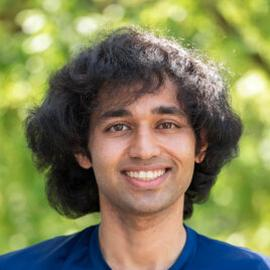
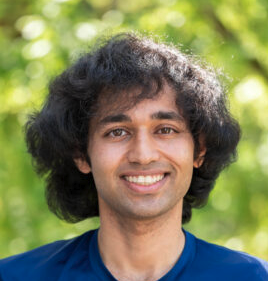
updates

diff --git a/authors/aditya-rastogi/index.html b/authors/aditya-rastogi/index.html
@@ -310,11 +310,11 @@
 
   <meta property="twitter:site" content="@ShadiAlbarqouni" />
   <meta property="twitter:creator" content="@ShadiAlbarqouni" />
-<meta property="twitter:image" content="https://bild2025.github.io/authors/aditya-rastogi/avatar_hu006fa9344060ed4c86d5eb4ad710c7d6_12441_270x270_fill_q75_lanczos_center.jpg" />
+<meta property="twitter:image" content="https://bild2025.github.io/authors/aditya-rastogi/avatar_hu1f9d74a465eee4c1043983758b492142_153314_270x270_fill_q75_lanczos_center.jpg" />
 <meta property="og:site_name" content="BILD" />
 <meta property="og:url" content="https://bild2025.github.io/authors/aditya-rastogi/" />
 <meta property="og:title" content="Aditya Rastogi | BILD" />
-<meta property="og:description" content="Summer School" /><meta property="og:image" content="https://bild2025.github.io/authors/aditya-rastogi/avatar_hu006fa9344060ed4c86d5eb4ad710c7d6_12441_270x270_fill_q75_lanczos_center.jpg" /><meta property="og:locale" content="en-us" />
+<meta property="og:description" content="Summer School" /><meta property="og:image" content="https://bild2025.github.io/authors/aditya-rastogi/avatar_hu1f9d74a465eee4c1043983758b492142_153314_270x270_fill_q75_lanczos_center.jpg" /><meta property="og:locale" content="en-us" />
 
   
 
@@ -753,7 +753,7 @@
       
       <img class="avatar avatar-circle"
            width="270" height="270"
-           src="/authors/aditya-rastogi/avatar_hu006fa9344060ed4c86d5eb4ad710c7d6_12441_270x270_fill_q75_lanczos_center.jpg" alt="Aditya Rastogi">
+           src="/authors/aditya-rastogi/avatar_hu1f9d74a465eee4c1043983758b492142_153314_270x270_fill_q75_lanczos_center.jpg" alt="Aditya Rastogi">
       
 
       <div class="portrait-title">
@@ -784,6 +784,9 @@
 
     <div class="article-style">
       <h1 id="biography">Biography</h1>
+<p>Dr. Aditya Rastogi is a postdoctoral researcher in the Department of Neuroradiology at Universitätsklinikum Bonn, where he works with Prof. Philipp Vollmuth and leads AI research within the Division of Computational Radiology and Clinical AI. His research focuses on developing advanced computational methods for medical image reconstruction, solving inverse problems, and integrating multi-modal neuroimaging.</p>
+<p>His current research interests lie in designing AI algorithms for ultra-low-field MRI and MRI scan-time reduction with a focus on generative modelling and human-in-the-loop optimisation. He earned his M.Tech and Ph.D. from the Indian Institute of Science (IISc), Bangalore, under the supervision of Prof. Phaneendra Yalavarthy, with a specialisation in computational medical imaging. During his doctoral studies, he was awarded the prestigious Prime Minister’s Research Fellowship (PMRF) by the Government of India in recognition of his research potential.</p>
+<p>Prior to joining Universitätsklinikum Bonn, he held a postdoctoral position at Universitätsklinikum Heidelberg. He is also engaged in mentoring graduate students and contributing to open-source initiatives in medical AI.</p>
 
     </div>
 

diff --git a/attend/index.html b/attend/index.html
@@ -756,7 +756,7 @@
   
     <div class="article-style"><h2 id="ready-to-join-us-for-the-summer-school-on-biomedical-imaging-with-deep-learning-in-tunis">Ready to join us for the Summer School on Biomedical Imaging with Deep Learning in Tunis!</h2>
 <h2 id="registration-stay-tuned">Registration (Stay Tuned)</h2>
-<p><strong>Register</strong> now to secure your spot and provide us with essential information. Click <a href="https://forms.gle/wkG53PUPQ7K4zLK3A" target="_blank" rel="noopener">here</a> to access the registration form.</p>
+<p><strong>Register</strong> now to secure your spot and provide us with essential information. Click <a href="https://forms.gle/ZkqCToV86z5mJhvg9" target="_blank" rel="noopener">here</a> to access the registration form.</p>
 <h2 id="accommodation">Accommodation</h2>
 <h3 id="the-accommodtion-will-be-arranged-for-our-invited-speakersguests">The Accommodtion will be arranged for our invited Speakers/Guests.</h3>
 <ul>

diff --git a/people/index.html b/people/index.html
@@ -1084,7 +1084,7 @@
         
         
           
-          <a href="/authors/aditya-rastogi/"><img width="270" height="270" loading="lazy" class="avatar avatar-circle" src="/authors/aditya-rastogi/avatar_hu006fa9344060ed4c86d5eb4ad710c7d6_12441_270x270_fill_q75_lanczos_center.jpg" alt="Avatar"></a>
+          <a href="/authors/aditya-rastogi/"><img width="270" height="270" loading="lazy" class="avatar avatar-circle" src="/authors/aditya-rastogi/avatar_hu1f9d74a465eee4c1043983758b492142_153314_270x270_fill_q75_lanczos_center.jpg" alt="Avatar"></a>
         
 
         <div class="portrait-title">

diff --git a/index.html b/index.html
@@ -867,7 +867,7 @@
         
       
     <p class="cta-btns">
-      <a href="https://forms.gle/wkG53PUPQ7K4zLK3A" target="_blank" rel="noopener" class="btn btn-primary btn-lg mb-md-1"><i class="fas fa-id-card pr-1" aria-hidden="true"></i>Register</a>
+      <a href="https://forms.gle/ZkqCToV86z5mJhvg9" target="_blank" rel="noopener" class="btn btn-primary btn-lg mb-md-1"><i class="fas fa-id-card pr-1" aria-hidden="true"></i>Register</a>
 
       
       
